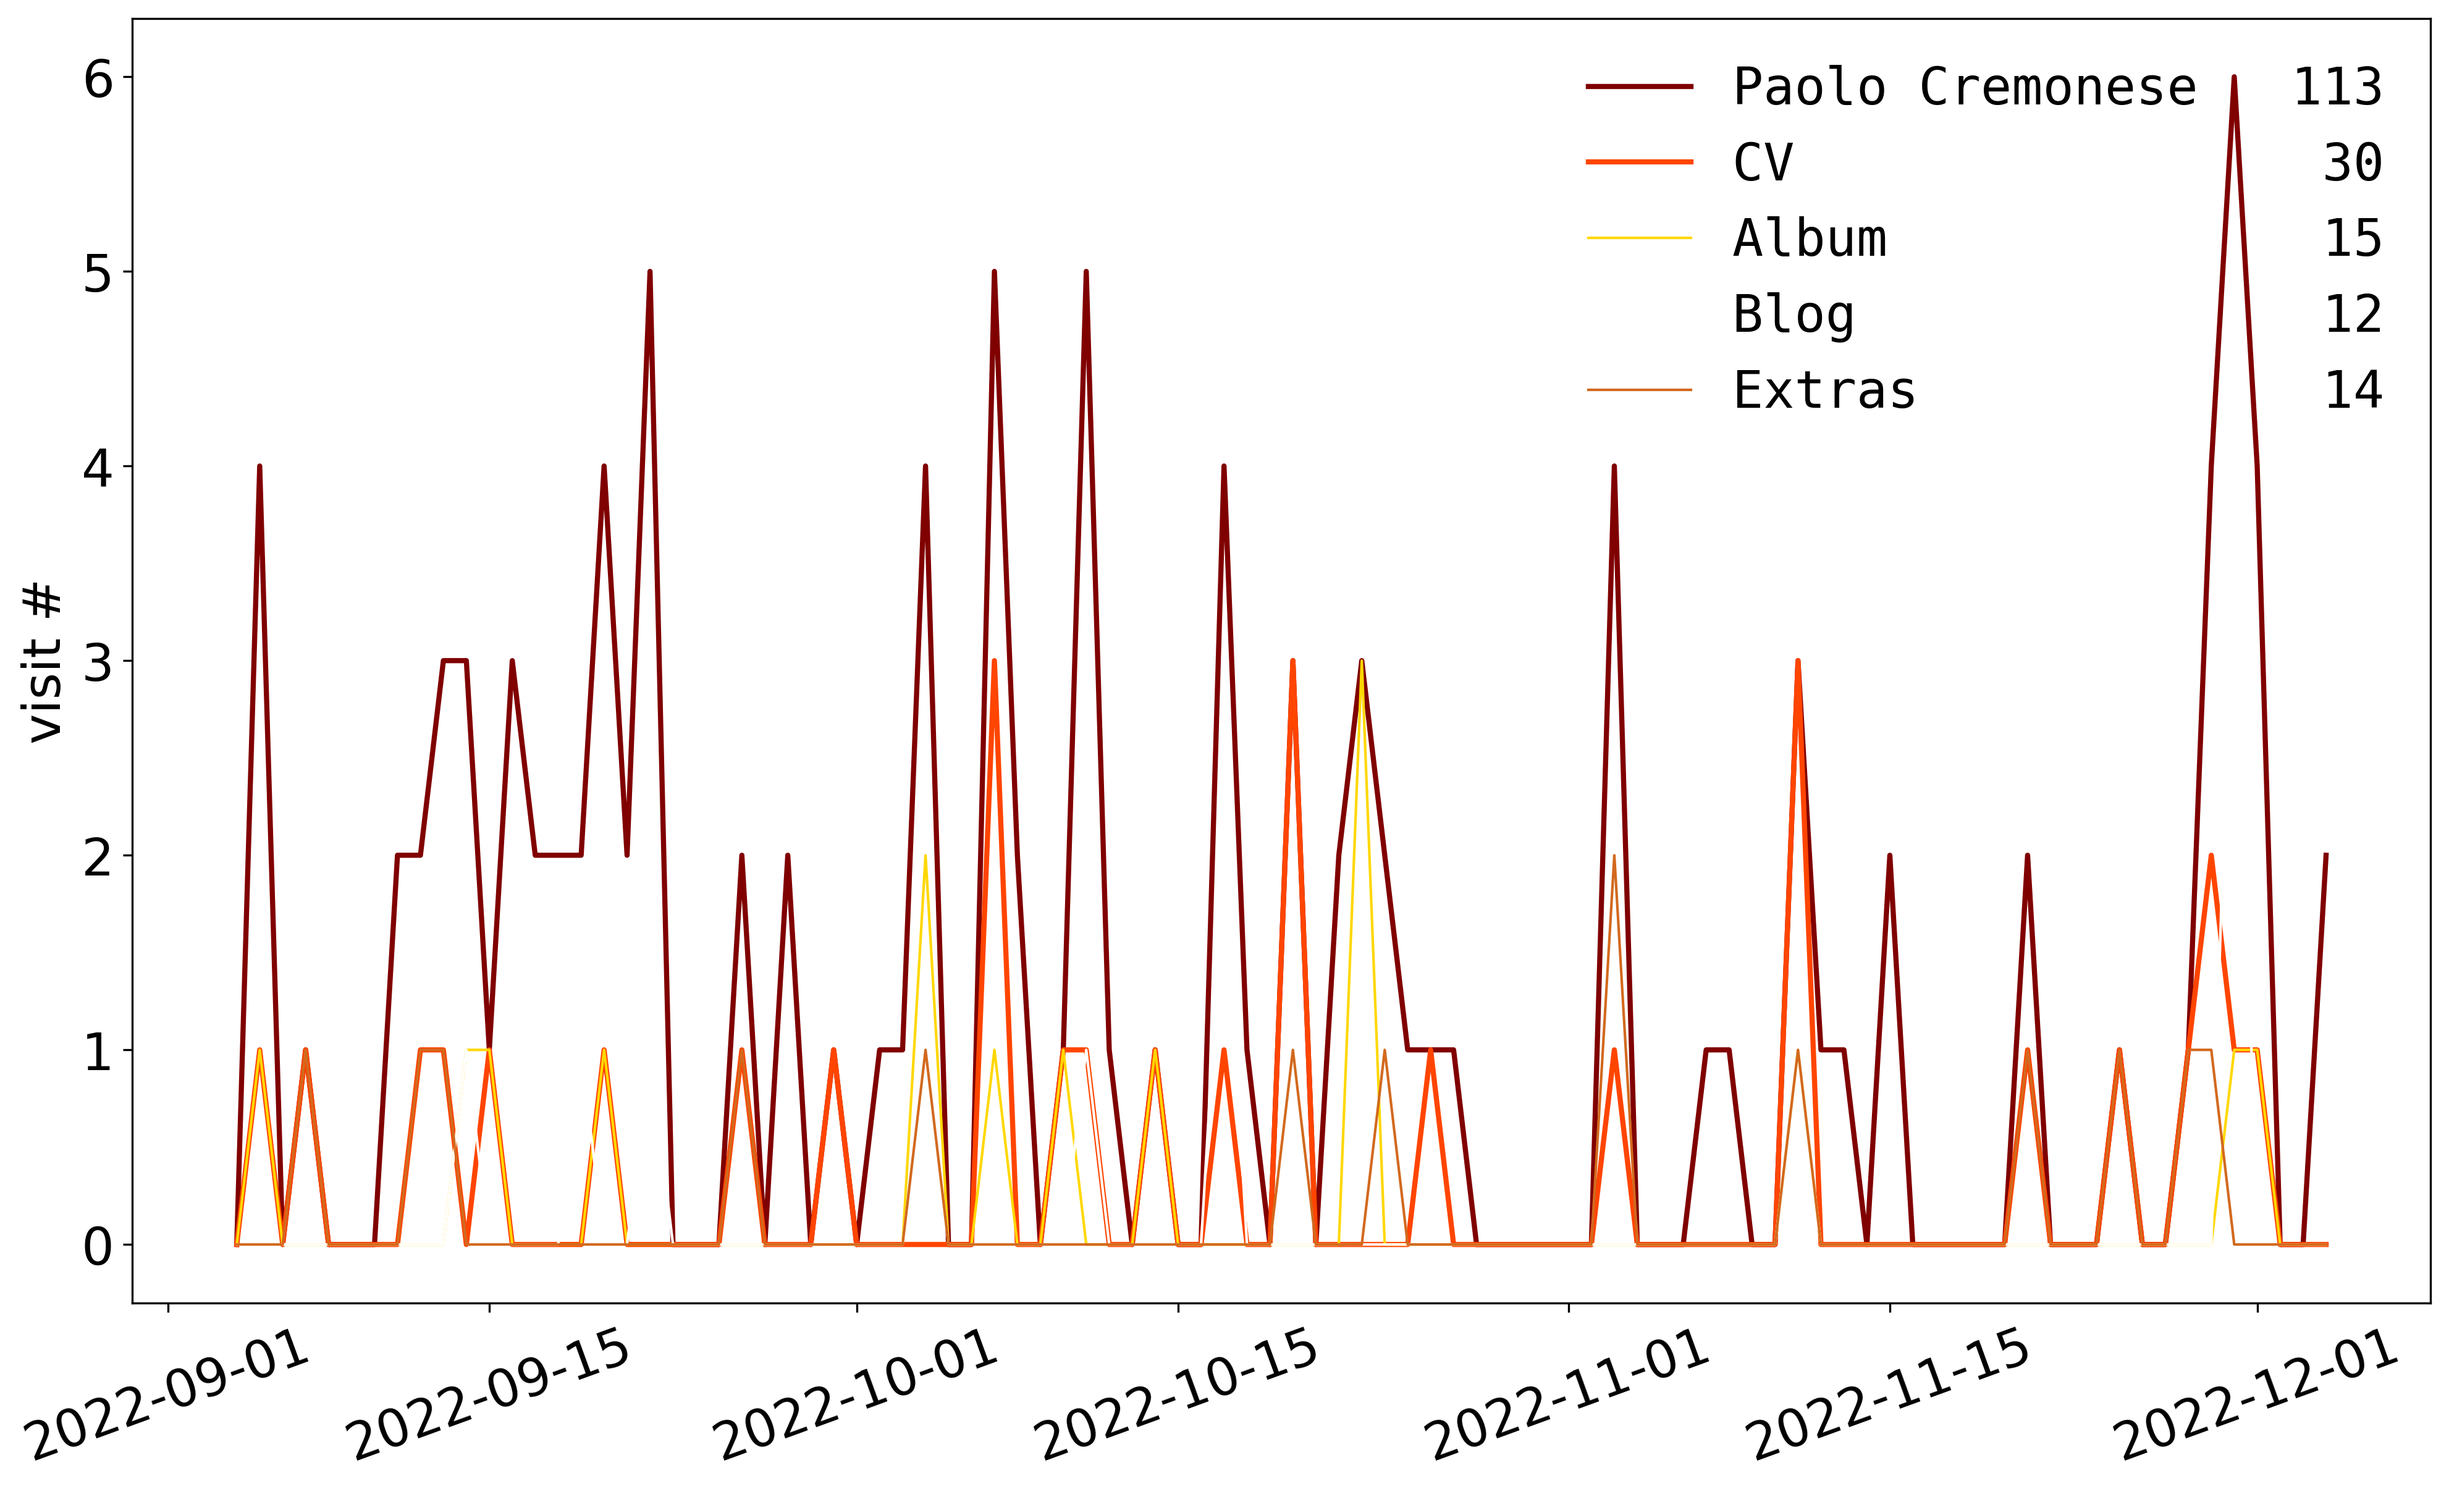
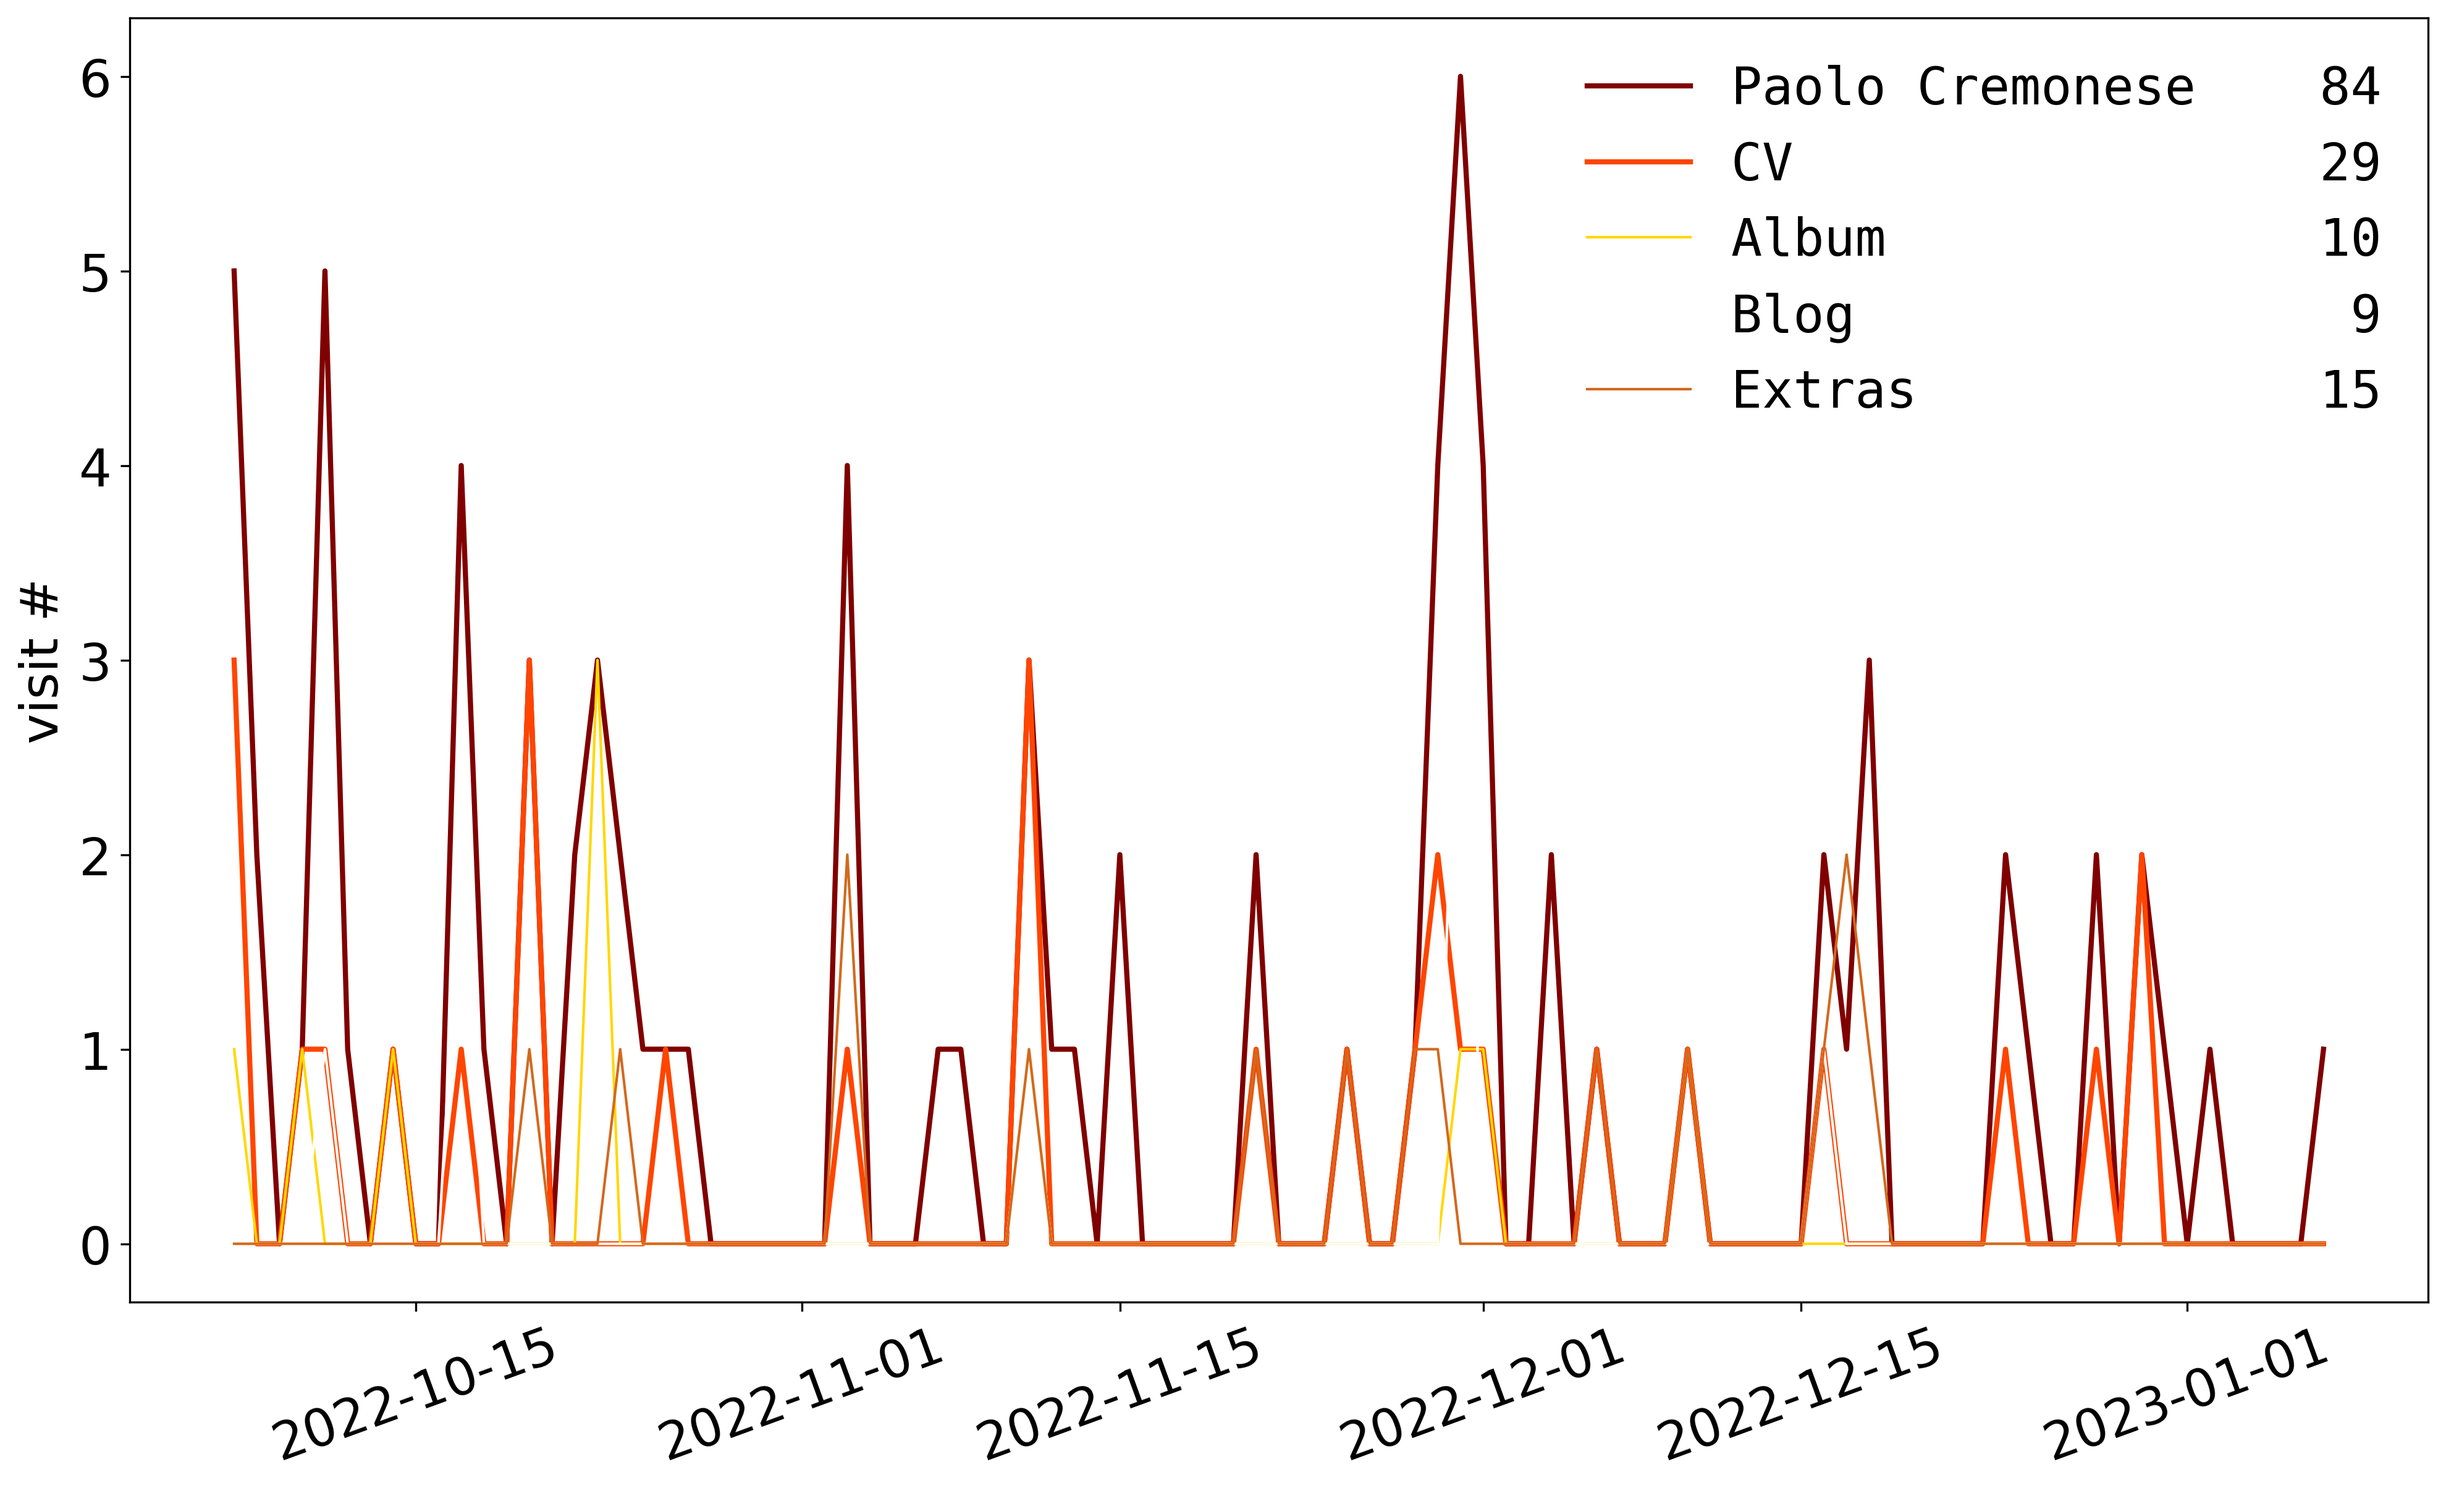
added "page_view" of December and updated 3 months recap

diff --git a/extras.html b/extras.html
@@ -392,6 +392,7 @@ https://www.w3schools.com/colors/colors_picker.asp
    <b style="font-size:15px">History</b>
    
    <figure>
+        <img src="images/page_view_2212.jpg" alt="" style="width:30%"> <!-- width=300vh-->
         <img src="images/page_view_2211.jpg" alt="" style="width:30%"> <!-- width=300vh-->
         <img src="images/page_view_2210.jpg" alt="" style="width:30%"> <!-- width=300vh-->
         <img src="images/page_view_2209.jpg" alt="" style="width:30%"> <!-- width=300vh-->

diff --git a/files/page_view.py b/files/page_view.py
@@ -42,8 +42,8 @@ dates = [di+(dt*i) for i in cf.index]
 # [print(i) for i in dates]
 
 #%% for 3 months period
-ida = pd.to_datetime('2022-09-04')
-fda = pd.to_datetime('2022-12-04')
+ida = pd.to_datetime('2022-10-07')
+fda = pd.to_datetime('2023-01-07')
 
 for n,i in enumerate(dates):
      if i==ida:
@@ -90,8 +90,8 @@ plt.show()
 
 #%% for single month
 
-month = 'November'
-mn = '11'
+month = 'December'
+mn = '12'
 ida = pd.to_datetime('2022-'+mn+'-01')
 fda = pd.to_datetime('2022-'+mn+'-30')
 
